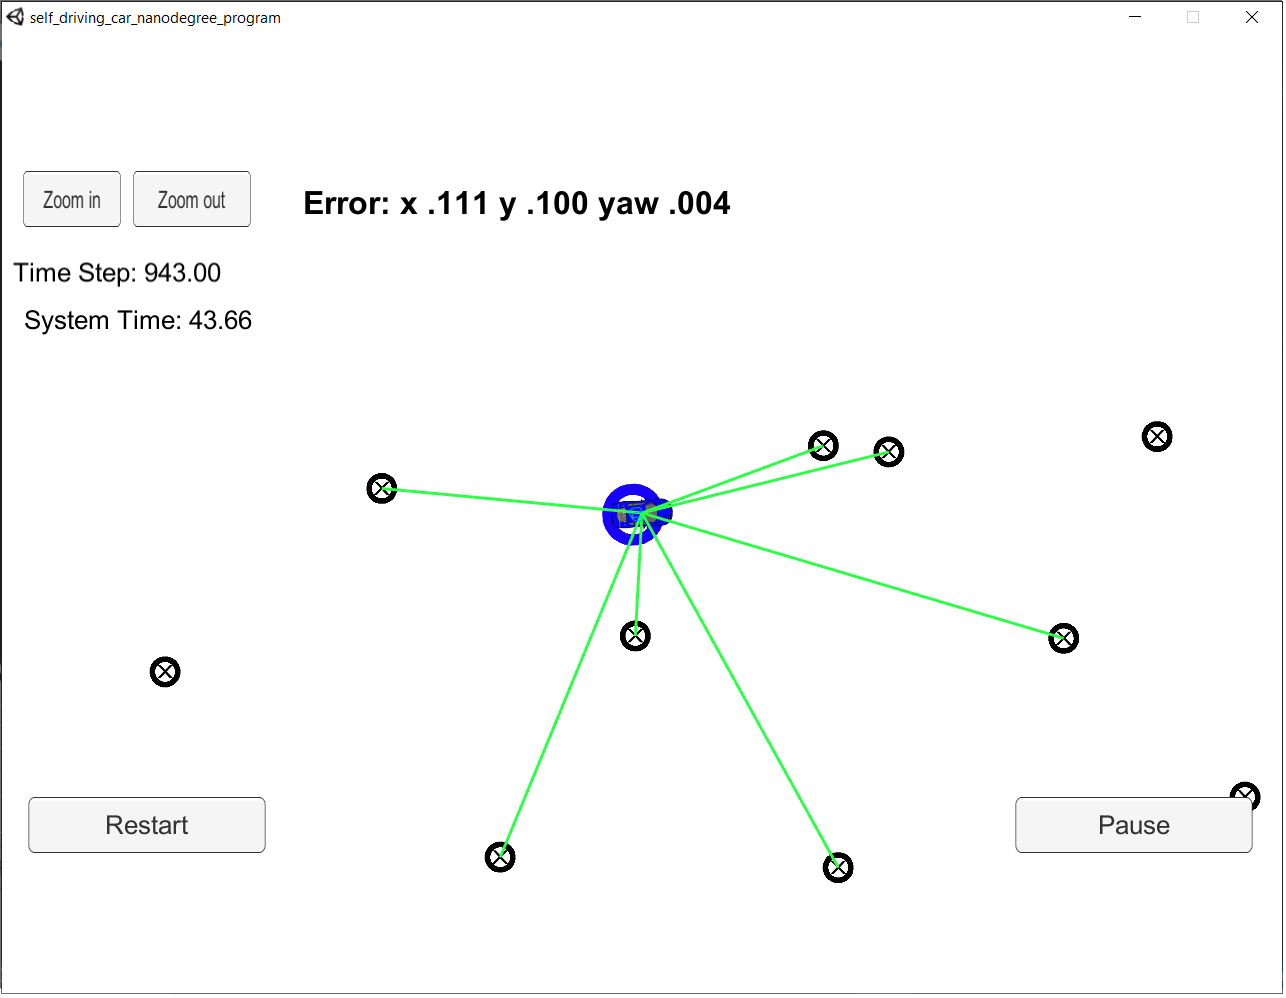
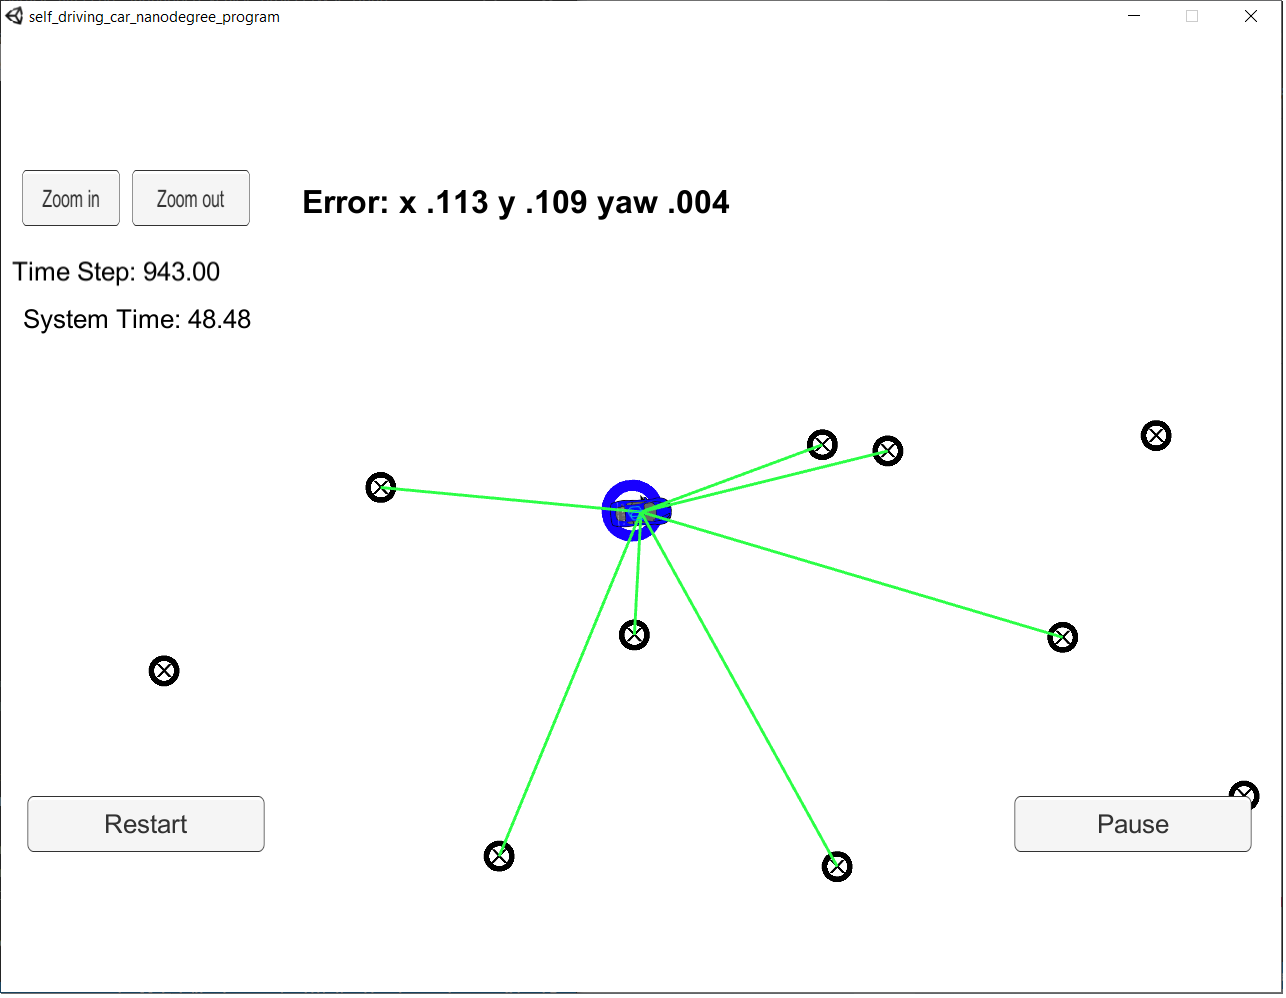
Second

diff --git a/src/particle_filter.cpp b/src/particle_filter.cpp
@@ -41,7 +41,7 @@ void ParticleFilter::init(double x, double y, double theta, double std[]) {
 if(is_initialized){
   return;
 }
-  num_particles = 200;  // TODO: Set the number of particles
+  num_particles = 100;  // TODO: Set the number of particles
 
   // Set the Standard deviations of position and heading 
   double std_x = std[0];
@@ -93,8 +93,8 @@ void ParticleFilter::prediction(double delta_t, double std_pos[],
  for (int i = 0; i < num_particles; ++i) {
     double theta = particles[i].theta;
 // I added a small number to the yaw rate to avoid dividing by zero 
-      particles[i].x += velocity / (yaw_rate+0.0001) * (sin(theta + yaw_rate * delta_t) - sin(theta)) + dist_x(gen);
-      particles[i].y += velocity / (yaw_rate+0.0001) * (cos(theta) - cos(theta + yaw_rate * delta_t)) +dist_y(gen);
+      particles[i].x += velocity / (yaw_rate+0.000001) * (sin(theta + yaw_rate * delta_t) - sin(theta)) + dist_x(gen);
+      particles[i].y += velocity / (yaw_rate+0.000001) * (cos(theta) - cos(theta + yaw_rate * delta_t)) +dist_y(gen);
       particles[i].theta += yaw_rate * delta_t + dist_theta(gen);
 
 
@@ -257,9 +257,7 @@ void ParticleFilter::resample() {
 
   double beta = 0.0;
 
-
-
-  // Get weights and max weight.
+  // Getting the weights max. 
   vector<double> weights;
   double maxWeight = numeric_limits<double>::min();
   for (int i = 0; i < num_particles; i++) {
@@ -269,10 +267,10 @@ void ParticleFilter::resample() {
     }
   }
 
-  // Creating distributions.
+  // Creating uniform real distributions
   uniform_real_distribution<double> distDouble(0.0, maxWeight);
 
-  // the wheel
+  // Finding the Resampled Particles
   vector<Particle> resampledParticles;
   for (int i = 0; i < num_particles; i++) {
     beta += distDouble(gen) * 2.0;
